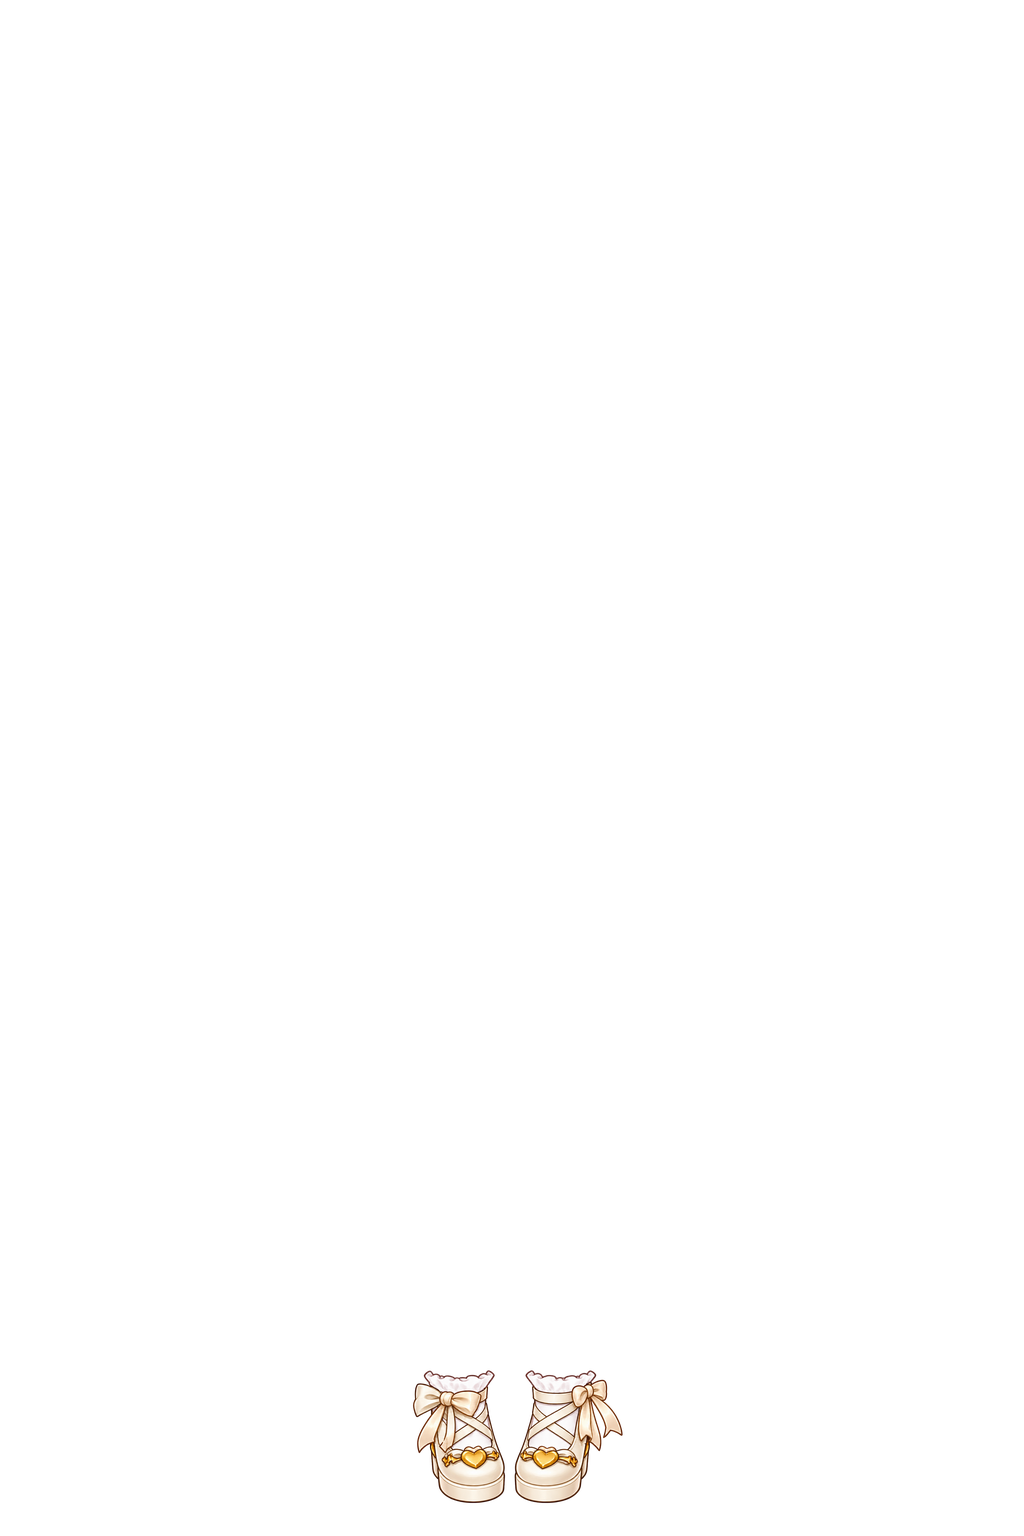
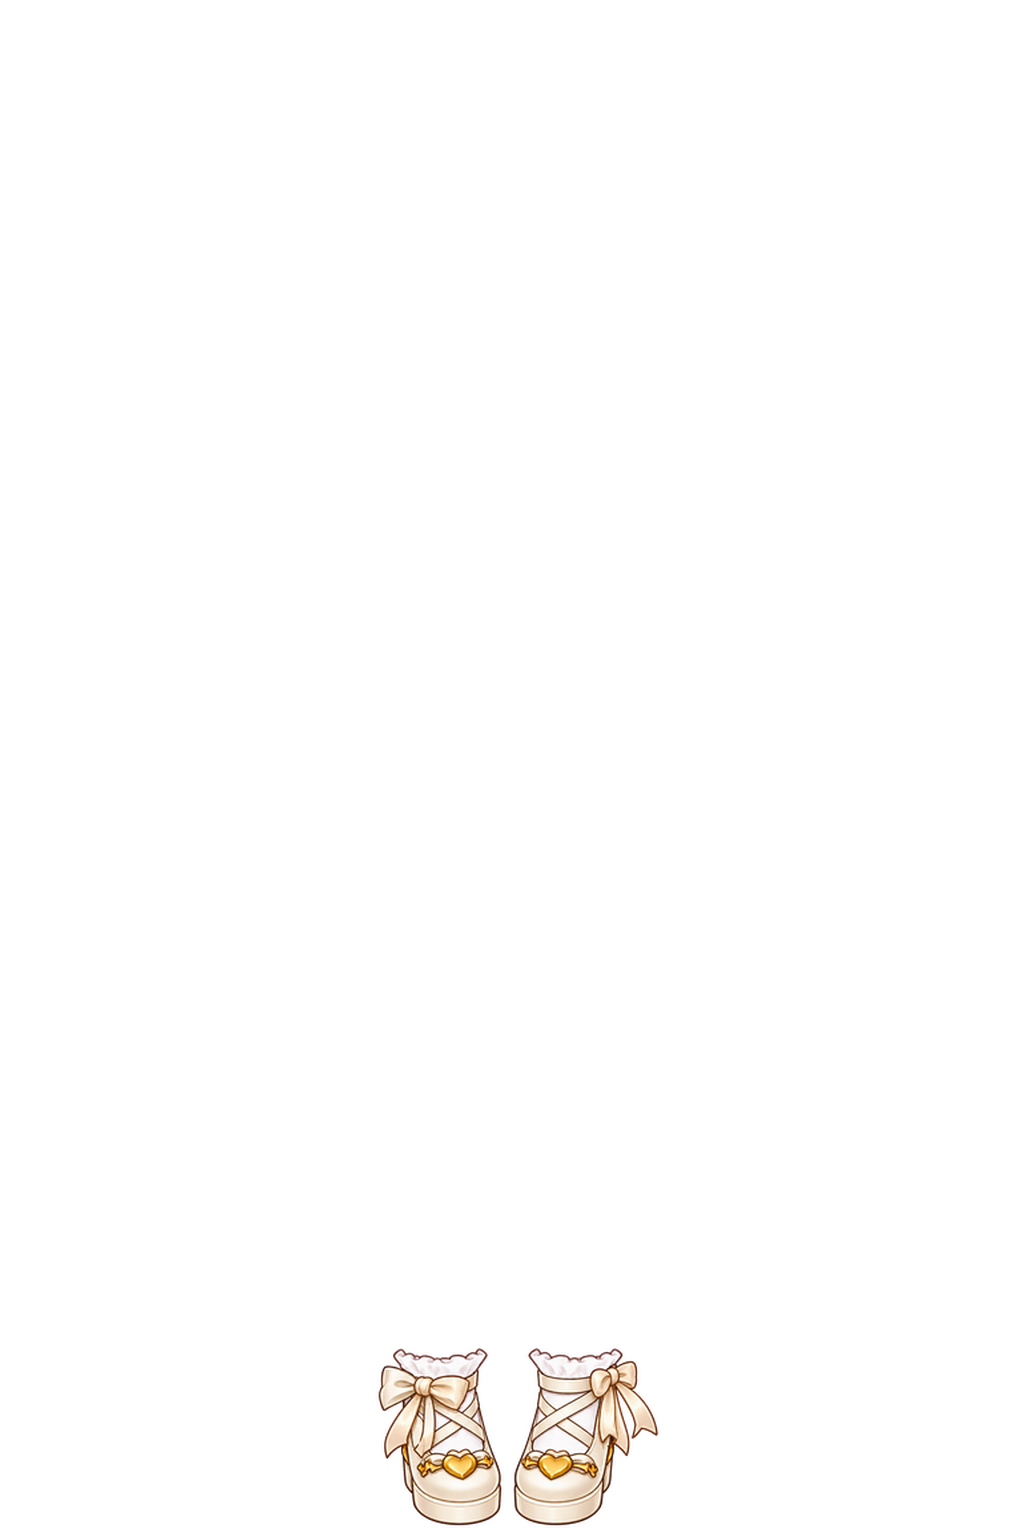
새로고침이 계속 다운로드하던 문제: 그림은 설치 때 받지 않고 쓸 때 저장(설치 16MB→1.4MB), 강제 새로고침은 앱 코드 캐시만 지움 + 신발(하트 통굽) +3
Claude-Session: https://claude.ai/code/session_01QsJz8svXLJhiXtuEPA1E7w

Changed region(s): [[0.375, 0.875, 0.6562, 1.0]]

diff --git a/src/lib/appUpdate.test.ts b/src/lib/appUpdate.test.ts
@@ -53,7 +53,7 @@ async function setupBehind({ latestOk = true, waiting = false, failUpdate = fals
   vi.stubGlobal('window', { location: { reload } })
   vi.stubGlobal('document', { scripts: [{ src: 'https://x.test/assets/index-OLD.js' }] })
   const deleted: string[] = []
-  vi.stubGlobal('caches', { keys: async () => ['workbox-precache', 'other'], delete: async (name: string) => { deleted.push(name); return true } })
+  vi.stubGlobal('caches', { keys: async () => ['workbox-precache-v2-x', 'ryuso-images'], delete: async (name: string) => { deleted.push(name); return true } })
   vi.stubGlobal('fetch', vi.fn(async () => ({ ok: latestOk, text: async () => '<script src="./assets/index-NEW.js"></script>' })))
   vi.resetModules()
   return { refresh: (await import('./appUpdate')).refreshApp, reload, unregister, deleted, registration }
@@ -62,7 +62,7 @@ it('falls back to clearing the app-code cache when the page is behind but no upd
   const { refresh, reload, unregister, deleted } = await setupBehind()
   await refresh()
   expect(unregister).toHaveBeenCalledOnce()
-  expect(deleted).toEqual(['workbox-precache', 'other'])
+  expect(deleted).toEqual(['workbox-precache-v2-x'])
   expect(reload).toHaveBeenCalledOnce()
 })
 it('does not clear anything when the page is already the latest version', async () => {

diff --git a/src/lib/appUpdate.ts b/src/lib/appUpdate.ts
@@ -51,11 +51,11 @@ async function isBehind(): Promise<boolean> {
 }
 /**
  * 서비스 워커가 새 버전을 못 받아 와서 새로고침해도 옛 화면이 다시 뜰 때의 마지막 수단:
- * 서비스 워커와 앱 코드 캐시(Cache Storage)를 지우고 다시 연다. 코디·방·농장·게임 기록(localStorage, IndexedDB)은 건드리지 않는다.
+ * 서비스 워커와 앱 코드 캐시(precache)를 지우고 다시 연다. 저장해 둔 그림 캐시(ryuso-images)는 남긴다. 코디·방·농장·게임 기록(localStorage, IndexedDB)은 건드리지 않는다.
  */
 async function hardRefresh(): Promise<void> {
   try { for (const registration of await navigator.serviceWorker.getRegistrations()) await registration.unregister() } catch { /* 이어서 진행 */ }
-  try { if (typeof caches !== 'undefined') for (const name of await caches.keys()) await caches.delete(name) } catch { /* 이어서 진행 */ }
+  try { if (typeof caches !== 'undefined') for (const name of await caches.keys()) if (/precache/i.test(name)) await caches.delete(name) } catch { /* 이어서 진행 */ }
   window.location.reload()
 }
 

diff --git a/vite.config.ts b/vite.config.ts
@@ -31,8 +31,22 @@ export default defineConfig({
       },
       workbox: {
         cleanupOutdatedCaches: true,
-        globPatterns: ['**/*.{js,css,html,webp,png,svg,json}'],
+        // 앱 코드만 설치 때 한꺼번에 받는다 (그림 18MB 는 쓸 때 받아서 저장: 업데이트·새로고침이 가볍다)
+        globPatterns: ['**/*.{js,css,html,json}', 'icons/*.png'],
         maximumFileSizeToCacheInBytes: 5 * 1024 * 1024,
+        runtimeCaching: [
+          {
+            // 그림은 인터넷이 되면 항상 최신으로 받고(3초 안에 못 받으면 저장해 둔 것), 오프라인에서는 저장해 둔 것을 쓴다
+            urlPattern: ({ url }) => /\.(?:webp|png|svg|jpg)$/i.test(url.pathname),
+            handler: 'NetworkFirst',
+            options: {
+              cacheName: 'ryuso-images',
+              networkTimeoutSeconds: 3,
+              expiration: { maxEntries: 800, maxAgeSeconds: 60 * 60 * 24 * 60 },
+              cacheableResponse: { statuses: [0, 200] },
+            },
+          },
+        ],
       },
     }),
   ],

diff --git a/tools-py/fit_costumes.py b/tools-py/fit_costumes.py
@@ -39,6 +39,7 @@ MANUAL: dict[str, dict] = {
     'dress_maid_blue': dict(scale=1.1 ** 2, dy=10 * 8, pivot=(512, 913)),  # +2, 아래로 10칸
     'dress_midnight_navy': dict(scale=1.0, dy=-1 * 8, pivot=(512, 980)),  # 위로 1칸
     'shoes_pink_maryjane_socks': dict(scale=1.1 ** 2, dy=0, pivot=(510, 1431)),  # 신발 +2 (옷 영역 중심 기준)
+    'shoes_platform_cream_heart': dict(scale=1.1 ** 3, dy=0, pivot=(517, 1436)),  # 신발 +3 (신발 영역 중심 기준)
     'dress_starry_navy': dict(scale=1.1, dy=6 * 8, pivot=(512, 1070)),  # +1, 아래로 6칸 (아래 자락은 캔버스 밖으로 잘림)
 }
 OVERRIDES: dict[str, tuple[int, int]] = {
